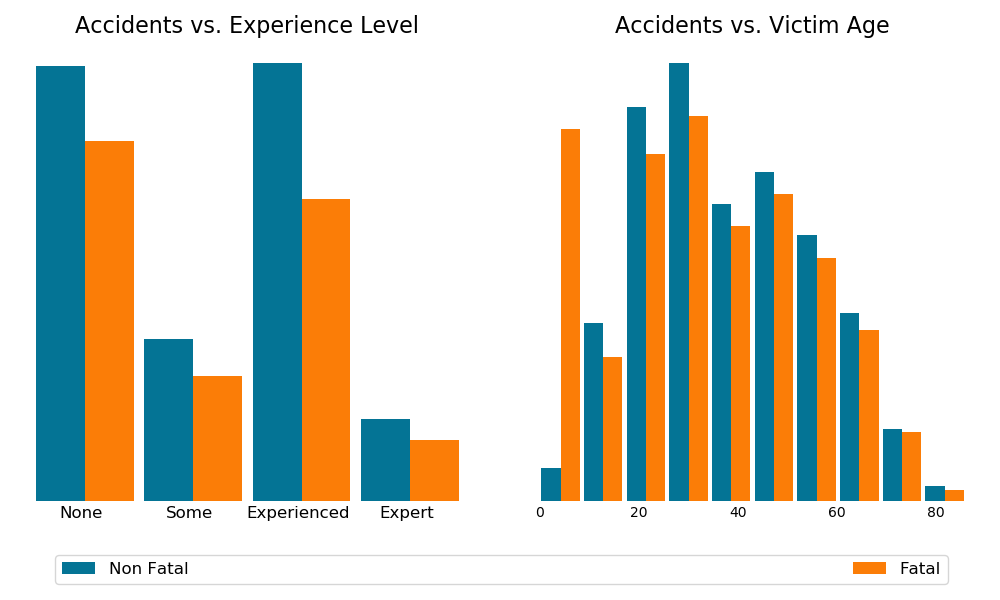
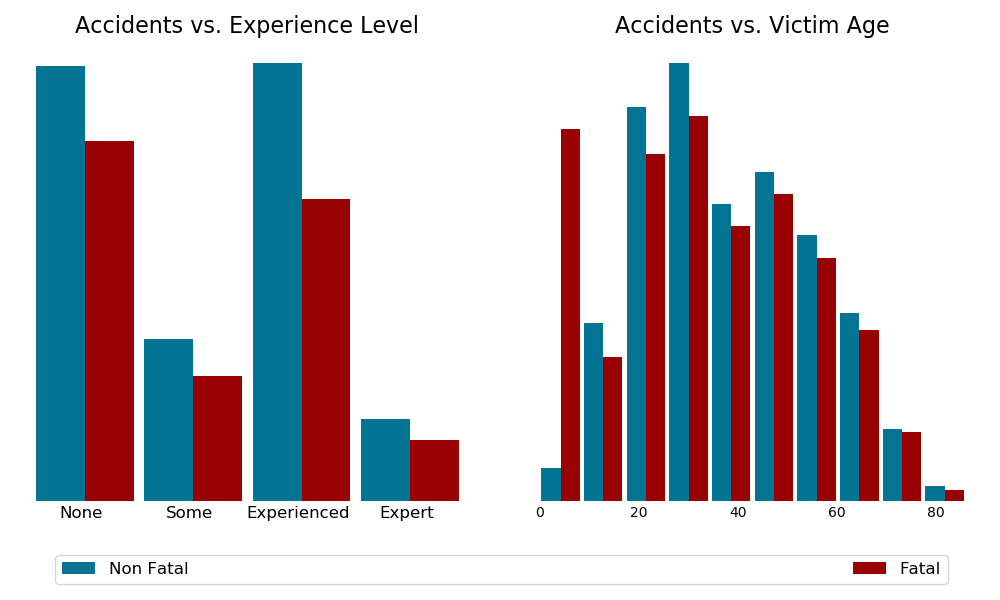
Edit README

diff --git a/visualizations/histograms.py b/visualizations/histograms.py
@@ -39,12 +39,12 @@ def histogram(ax, data, saveas, title, colors,
         ax.spines['left'].set_visible(False)
 
     if tags:
-        # for bottom legend
+        # for 2 axs bottom legend
         plt.legend(bbox_to_anchor=(-1, -.15, 1.92, 0), ncol=2,
                    mode='expand', loc='center',
                    borderaxespad=0., fontsize=12)
 
-        # for other bottom legend
+        # for 1 axs bottom legend
         # plt.legend(bbox_to_anchor=(0, -.15, 1, 0), ncol=2,
         #            mode='expand', loc='center',
         #            borderaxespad=0., fontsize=12)
@@ -57,6 +57,10 @@ def histogram(ax, data, saveas, title, colors,
 
 
 if __name__ == "__main__":
+
+    # blue: #047495
+    # orange: #fb7d07
+    # red: #980002
 
     # start = pd.to_datetime(2020, format='%Y')
     # end = pd.to_datetime(1960, format='%Y')
@@ -83,11 +87,11 @@ if __name__ == "__main__":
 
     fig, ax = plt.subplots(1, 2, figsize=(10, 6))
     histogram(ax[0], [level, level_death], 'level_diff_death_2',
-              'Accidents vs. Water Level', colors=['#047495', '#fb7d07'],
+              'Accidents vs. Water Level', colors=['#047495', '#980002'],
               labels=lev_labels, bins=4, remove_spines=True,
               tags=['Non Fatal', 'Fatal'])
     histogram(ax[1], [diff, diff_death], 'level_diff_death_2',
-              'Accidents vs. River Difficulty', colors=['#047495', '#fb7d07'],
+              'Accidents vs. River Difficulty', colors=['#047495', '#980002'],
               labels=diff_labels, bins=5, remove_spines=True,
               tags=['Non Fatal', 'Fatal'])
 
@@ -128,9 +132,9 @@ if __name__ == "__main__":
 
     fig, ax = plt.subplots(1, 2, figsize=(10, 6))
     histogram(ax[0], [exper, exper_death], 'exper_age_death',
-              'Accidents vs. Experience Level', colors=['#047495', '#fb7d07'],
+              'Accidents vs. Experience Level', colors=['#047495', '#980002'],
               labels=exper_labels, bins=4, remove_spines=True,
               tags=['Non Fatal', 'Fatal'])
     histogram(ax[1], [age, age_death], 'exper_age_death',
-              'Accidents vs. Victim Age', colors=['#047495', '#fb7d07'],
+              'Accidents vs. Victim Age', colors=['#047495', '#980002'],
               remove_spines=True, tags=['Non Fatal', 'Fatal'])

diff --git a/README.md b/README.md
@@ -9,26 +9,21 @@ These reports provide a learning opportunity to the paddling community, and faci
  
 The goal of this repository is to identify factors that can turn a near miss into a fatality, hopefully reducing tragedies and statistics alike.
  
-<!-- # Vocabulary
-Foot Entrapment
-
-![](images/screenshots/foot_entrapment.jpg)
- 
-Pin / Wrap
-
-![](images/screenshots/pin.jpg) -->
- 
  
 # Data
  
 ## American Whitewater Accident Database
  
-The data is a combination of user submitted forms and web-scrapped articles. As such, it is supremely messy.
+The database is created from a combination of user submitted forms and web-scrapped articles. As such, it is supremely messy.
+
 ![](/images/screenshots/messy.png)
  
 ## Features
  
-After deleting personal information, all text features are combined into the `description` column. In addition to the written narrative, this analysis focuses on:
+After deleting personal information, all text features (river, section, location, waterlevel, and cause) are combined into the `description` column.
+
+In addition to the written narrative, this analysis focuses on:
+
 * State (location)
 * River level
 * River difficulty
@@ -40,110 +35,88 @@ After deleting personal information, all text features are combined into the `de
    * Fatality
    * Medical (near miss)
    * Injury (near miss)
+
+The ordinal features: river level (Low, Medium, High, and Flood), river difficulty (I, II, III, IV, V), and victim skill (Inexperienced, Some experience, Experienced, Expert) are mapped linearly to integers.
+
+Type of watercraft is mapped to kayak (1) or not.
+
+Trip type is mapped to commercial (1) or not.
+
+Accident outcome is mapped to fatal (1) or not.
  
- 
+Given an unreasonable number of 0 year olds with contradictory description entries, ages equal to 0 are dropped.
+
+Text from the river, section, location, waterlevel, and cause features are added into the description column.
+
 # EDA
-## `description`
+## Pre-processing
  
 Because the descriptions of accidents are aggregated from both external websites and user submitted forms, the documents have very inconsistent structure.
  
-All documents have some level of `html` embedded in them, and some are actually in `json`. The first step in the text analysis is to convert each document into one long string. The strings are then tokenized with a purpose-built function. [Spacy's](https://spacy.io) english stop words are used as a base to start. Because of inconsistent description tense, the documents are lemmatized into their root words before being vectorized into a tf-idf matrix.
+All documents have some level of `html` embedded in them, and some are actually in `json`. The first step in the text analysis is to convert each document into one long string. The strings are then tokenized with a purpose-built script. [Spacy's](https://spacy.io) english stop words are used as a base to start. Because of inconsistent description tense, the documents are lemmatized into their root words before being vectorized into either a term fequency or tf-idf matrix.
  
-### K-means
-Hard clustering of the tf-idf matrix is used to find underlying structure.
- 
-![](/images/screenshots/topics_w_html.png)
- 
-Typically, some clusters identify more `html` words to add to the custom tokenization script.
- 
-![](/images/screenshots/drugs.png)
- 
-After many iterations, the clustering still identifies more stop words, but salient topics emerge.
- 
-![](/images/screenshots/good_topics.png)
- 
-   1) some stopwords, accidents clustered on drugs
-   3) man-made hazards
-   4) east coast boating
-   5) Idaho rivers
-   7) more stopwords
- 
-### PCA
- 
-Primary component analysis proves to be unilluminating. Less than 0.1% of the variance is explained in the first 8 components.
- 
-Below, the first two components are plotted with each accident labeled as a fatality, injury, or a medical emergency.
- 
-![](images/pca_targets_idf.png)
- 
-### LDA
- 
-Latent Dirichlet Analysis also fails to reveal new information.
- 
+Once vectorized, the matrix is clustered with the k-means algorithm. The underlying structure reveals documents with high  percentages of html words. The top words for those html clusters are added to the stopwords, and the process is repeated until salient, clean clusters emerge.
+
+## Latent Diriclet Allocation
+
+LDA does not illuminate any underlying structure.
+
 ![](/images/screenshots/lda.png)
- 
-### Description Length
- 
-As the descriptions become longer, a higher proportion of the accidents are fatal.
- 
+
+## Principal Component Analysis
+
+Similar to LDA, PCA fails to provide new information. Indeed, less than 0.1% of the variance is explained in the first 8 components.
+
+Below, the first two components are plotted with each accident labeled as a fatality, injury, or a medical emergency.
+
+![](images/pca_targets_idf.png)
+
+## Description Length
+
+As expected, as the descriptions of accidents become longer, a higher proportion of accidents are fatal.
+
 ![](/images/description_len_death.png)
- 
-## Non-text Features
- 
+
+## Geographic Distribution
+
 The number of accidents is likely proportional to the amount of whitewater recreation in a given state.
- 
+
 ![](/images/screenshots/map.png)
- 
-The raw number of accidents has increased over time, but this is unadjusted for population and sport popularity.
- 
+
+## Temporal Distribution
+
 ![](/images/dates.png)
- 
- 
-# Pipeline
-## Text
-Text from the river, section, location, waterlevel, and cause features are added into the description column.
- 
-The description column is tokenized, lemmatized, and vectorized before analysis.
- 
-## Categorical
-River level (Low, Medium, High, and Flood), river difficulty (I, II, III, IV, V), and victim skill (Inexperienced, Some experience, Experienced, Expert) are mapped linearly to integers.
- 
-Type of watercraft is mapped to kayak (1) or not.
- 
-Trip type are mapped to commercial (1) or not.
- 
-Given an unreasonable number of 0 year olds with contradictory description entries, ages equal to 0 are dropped.
- 
-# Models
-Sklearn grid searching is used to find the best hyperparameters. Models are tested on classification into three groups (Fatality, Injury, Medical) as well as Fatal or Near Miss. For simplicity and interpretability, only the binary classification results are shown.
- 
-<center>
 
-|          Model    | Precision     | Recall    | Accuracy  |
-|---------------:   |-----------    |--------   |---------- |
-| AdaBoost          | 86%           | 92%       | 86%       |
-| Bagging           | 87%           | 92%       | 87%       |
-| Naive Bayes       | 76%           | 95%       | 79%       |
-| Random Forest     | 77%           | 98%       | 81%       |
-| Logistic Classification   | 92%           | 100%      | 92%       |
-| NB, LC Stacked            | 88%           | 92%       | 84%       |
+# Nautral Language Processing
 
-</center>
- 
 ## Text Classification
-Tf-idf and tf matrices are compared.  Models are adjusted with k-folds cross validation and final performance is judged on a holdout data set.
 
+Sklearn grid searching is used to find the best hyperparameters with k-folds cross validation and final performance is judged on a holdout data set. Models are tested on classification into three groups (Fatality, Injury, Medical) as well as Fatal or Near Miss. For simplicity and interpretability, only the binary classification results are shown.
 
-
-### Boosting
-![](/images/boosting_n_score.png)
- 
- 
 ### Bagging
+
 Below are the most important words for predicting the outcome of an accident. It is worth noting that the model does not assert a positive or negative correlation, just predictive importance.
+
 ![](/images/bagging_features_horiz.png)
- 
+
 ### Naive Bayes
+
+After fitting a Naive Bayes model to the training data, for each category of incident, the top 100 words that made each category more and less likely are generated. Below is a curated subset of those lists.
+
+#### Words that made Medical more likely:
+    kayaker overdose, new, head, alcohol, xanax, tramadol, fall, rope
+
+#### Words that made Injury more likely:
+    man, pin, foot, strainer, group, kayaker, march
+
+#### Words that made Fatality more likely:
+    rock, dam, drown, pin, get help, search, rescue, time, large flow
+
+#### Words that made Fatality less likely:
+    competent group, thank, support, train, feel emotion, professional sar, respond
+ 
+#### Words that made Injury less likely:
+    farmer wetsuit, near drowning, new york, large kayak
  
 Below, mock descriptions were fed into the naive bayes model with the resulting predictions.
  
@@ -180,21 +153,11 @@ Below, mock descriptions were fed into the naive bayes model with the resulting 
 
 </center>
 
-Finally, for each category of incident, the top 100 words that made each category more and less likely were generated. Below is a curated subset of those lists.
-#### Words that made Medical more likely:
-    kayaker overdose, new, head, alcohol, xanax, tramadol, fall, rope
-
-#### Words that made Injury more likely:
-    man, pin, foot, strainer, group, kayaker, march
-
-#### Words that made Fatality more likely:
-    rock, dam, drown, pin, get help, search, rescue, time, large flow
-
-#### Words that made Fatality less likely:
-    competent group, thank, support, train, feel emotion, professional sar, respond
+# Numerical Feature Analysis
+Sklearn grid searching is used to find the best hyperparameters with k-folds cross validation and final performance is judged on a holdout data set. Models are tested on classification into three groups (Fatality, Injury, Medical) as well as Fatal or Near Miss. For simplicity and interpretability, only the binary classification results are shown.
  
-#### Words that made Injury less likely:
-    farmer wetsuit, near drowning, new york, large kayak
+## Boosting
+![](/images/boosting_n_score.png)
  
 ## Logistic Regression
  
@@ -209,11 +172,23 @@ A simple logistic was performed on the non-text features. This model performed b
 | Paddler Experience    | -0.34     | 0.034     |
 
 </center>
- 
-## Stacked
- 
-Adding the Naive Bayes prediction as a feature in the logistic model, oddly, decreased performance.
- 
+
+
+## Stacked Model
+
+Adding the Naive Bayes prediction as a feature in the logistic model, oddly, decreases performance.
+
+# Model Performance
+
+|          Model    | Precision     | Recall    | Accuracy  |
+|---------------:   |-----------    |--------   |---------- |
+| AdaBoost          | 86%           | 92%       | 86%       |
+| Bagging           | 87%           | 92%       | 87%       |
+| Naive Bayes       | 76%           | 95%       | 79%       |
+| Random Forest     | 77%           | 98%       | 81%       |
+| Logistic Classification   | 92%           | 100%      | 92%       |
+| NB, LC Stacked            | 88%           | 92%       | 84%       |
+
  
 # Conclusions
  
@@ -237,6 +212,8 @@ Combining the information from clustering, topic modeling, natural language proc
 * Age (above 10 years old), type of watercraft, and being on a commercial trip do not change the prediction of a fatality
 
 * 84% of the reported accidents where the victim is less than 18 years old are fatal
+
+* Be weary of the "first major rapid" on any run
  
 # Further
 * Further modification of the tokenization, lemmatization, and vectorization could improve the models.
